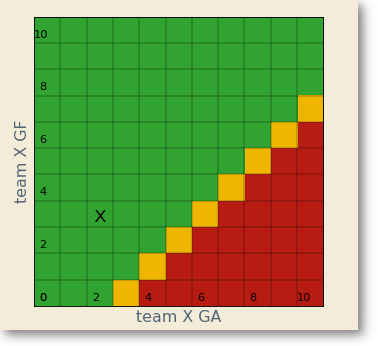
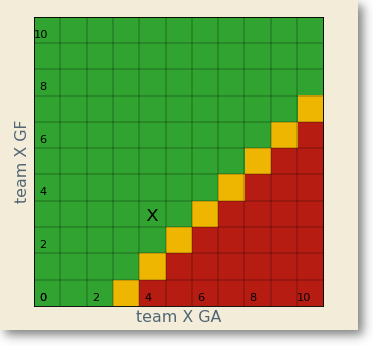
more content github pages

diff --git a/main.py b/main.py
@@ -39,27 +39,29 @@ class TieBreaker(App):
         self.layout = MyLayout()
         self.data = Data(gfa=self.gfa)
         self.help = Help()
-
-        if self.debug or self.test:
-            self.data.gfa = {"A_gf":[gfa[0]],"A_ga":[gfa[1]], \
-                    "X_gf":[gfa[2]],"X_ga":[gfa[3]]}
-            setattr(self.layout.tinput_A_ga,'text',str(self.data.gfa['A_ga'][0]))
-            setattr(self.layout.tinput_A_gf,'text',str(self.data.gfa['A_gf'][0]))
-            setattr(self.layout.tinput_X_ga,'text',str(self.data.gfa['X_ga'][0]))
-            setattr(self.layout.tinput_X_gf,'text',str(self.data.gfa['X_gf'][0]))
-        if self.debug:
-            self.imgdir = '/home/jbishop/src/python/kivy/testimages'
-            setattr(self.layout.mb2,'text',ptype)
-            self.layout.wltstate = wlt
-            self.data.wltstate = self.layout.wltstate
-            if ptype != 'matrix':
-                self.layout.check[self.layout.wltstate].active = True
-            self.doplot()
-        if self.test:
-            self.imgdir = '/home/jbishop/src/python/kivy/testimages/comp'
-            # not sure why this needs delay
-            Clock.schedule_once(self.do_test,1)
-            self.ilabel = None
+        self.imgdir = None
+    
+        if platform == 'linux':
+            if self.debug or self.test:
+                self.data.gfa = {"A_gf":[gfa[0]],"A_ga":[gfa[1]], \
+                        "X_gf":[gfa[2]],"X_ga":[gfa[3]]}
+                setattr(self.layout.tinput_A_ga,'text',str(self.data.gfa['A_ga'][0]))
+                setattr(self.layout.tinput_A_gf,'text',str(self.data.gfa['A_gf'][0]))
+                setattr(self.layout.tinput_X_ga,'text',str(self.data.gfa['X_ga'][0]))
+                setattr(self.layout.tinput_X_gf,'text',str(self.data.gfa['X_gf'][0]))
+            if self.debug:
+                self.imgdir = '/home/jbishop/src/python/kivy/testimages'
+                setattr(self.layout.mb2,'text',ptype)
+                self.layout.wltstate = wlt
+                self.data.wltstate = self.layout.wltstate
+                if ptype != 'matrix':
+                    self.layout.check[self.layout.wltstate].active = True
+                self.doplot()
+            if self.test:
+                self.imgdir = '/home/jbishop/src/python/kivy/testimages/comp'
+                # not sure why this needs delay
+                Clock.schedule_once(self.do_test,1)
+                self.ilabel = None
 
         # callbacks for radio button WLT updates
         for c in 'WL': # 'T' isn't implemented yet
@@ -203,11 +205,12 @@ class TieBreaker(App):
                 hf = None
                 self.layout.add_plot(self.layout.tlayout)
 
-            if self.debug:
-                if hf is not None:
-                    plt.savefig(os.path.join(self.imgdir,'testkivy.png'))
-                ilabel = '-'.join(self.gfa.astype(str))+'_'+self.layout.mb2.text+self.layout.wltstate
-                self.layout.fl.export_to_png(os.path.join(self.imgdir,'I_'+ilabel+'.png'))
+            if platform == 'linux':
+                if self.debug:
+                    if hf is not None:
+                        plt.savefig(os.path.join(self.imgdir,'testkivy.png'))
+                    ilabel = '-'.join(self.gfa.astype(str))+'_'+self.layout.mb2.text+self.layout.wltstate
+                    self.layout.fl.export_to_png(os.path.join(self.imgdir,'I_'+ilabel+'.png'))
             # note kivyagg object is still default 100x100 size here
             return hf
 

diff --git a/docs/instructions.md b/docs/instructions.md
@@ -3,8 +3,18 @@ layout: default
 title: Instructions
 permalink: /instructions/
 ---
-1. Team A has completed all 3 games of the round robin, while Team X has completed 2 games.
-2. Enter the total goals (for and against) for both teams, then press return.
+1. Consider the following hypothetical table of standings in a four team round robin. Team Chiefs has qualified to advance, in first place. Team A has also completed 3 games of the round robin. Team X has completed 2 games and has 1 final game remaining against team Bots:
+
+    | Team | Games | Wins | Losses | Ties | points |
+    | ---- | ----- | ---- | ------ | ---- | ------ |
+    | Chiefs | 3   | 3    | 0      | 0    | 6      |
+    | X    | 2     | 1    | 0      | 1    | 3      |
+    | A    | 3     | 1    | 1      | 1    | 3      |
+    | Bots | 2     | 0    | 2      | 0    | 0      |
+
+    *If team X loses the final game, there will be a tie with team A in the final round robin standings, and the tie-breaker formula will be needed to resolve it.*
+
+2. Enter the total goals (for and against) for both teams A and X, then press return.
 ![step 1]({{site.baseurl}}/images/tb_instructions_1.png "Step 1")
 
     *Team A has scored 12 for and given up 12 against during their 3 games. Team X has scored 13 and given up 10 in just 2 games.*
@@ -17,31 +27,26 @@ permalink: /instructions/
 
     ![step 3]({{site.baseurl}}/images/tb_instructions_3.png "Step 3")
 
-    *The black 'x' indicates a scenario in which team X scored a 3-2 victory in their final game, and qualify for further play based on overall GF/(GF+GA) ratio*
+    *The black 'x' indicates a scenario in which team X lost 4-3 in their final game, but qualify ahead of team A for further play based on the tie-breaking GF/(GF+GA) ratio*
 5. The yellow squares (if any) denote (GA,GF) pairs that fail to break the tie, according to the current formula.
 
     ![step 4]({{site.baseurl}}/images/tb_instructions_4.png "Step 4")
 
-    *The black 'x' indicates a scenario in which team X lost 5-2 in their final game, and are still tied with team A based on overall GF/(GF+GA) ratio*
-6. Note that matrix output shows both Win (GF>GA) and Loss (GA>GF) scenarios for team X in game 3, whereas only one or the other of those outcomes actually leads to a Tie with team A in the round robin standings.
-7. To select alternate outputs showing the known Win/Loss scenario, use the 'output' menu.
+    *The black 'x' indicates a scenario in which team X lost 5-2 in their final game, and are still tied with team A based on overall GF/(GF+GA) ratio. Tournament organizers will go to a second tie-breaking rule, which is then beyond the scope of this app.*
+6. Note that matrix output shows both Win (GF>GA) and Loss (GA>GF) scenarios for team X in game 3, whereas it is only a Loss for team X that will lead to a Tie in the round robin standings, in this fictitious example. And in general, for any round robin scenario it is known in advance of game 3 whether it is a Win or Loss that leads to a Tie in the final standings.
+7. To select alternate outputs showing only the known Win/Loss scenario, use the 'output' menu.
 
     ![step 5]({{site.baseurl}}/images/tb_instructions_5.png "Step 5")
 
     *Select \'bar\' or \'tabular\' for Win- or Loss-only scenarios. This will activate the radio buttons. To select Win or Loss scenarios use the \'W\' and \'L\' radio buttons respectively.*
 
-8. The bar chart displays a modified vertical axis showing the net difference GF-GA. 
-
-    ![step 6]({{site.baseurl}}/images/tb_instructions_6.png "Step 6")
-
-    *In a Win scenario, GF > GA so the vertical axis is positive. The plot shows that team X qualifies for any GA scenario, regardless of GF. Note that the vertical axis begins at 0, which is actually a tie. The zero (0) GF is plotted for both Win and Loss scenarios to establish a continuity between the two plots.*
-9. If the 'L' radio button is clicked to switch to the Loss scenario, the bar chart is replotted accordingly.
+8. The bar chart displays a modified vertical axis showing the net difference GF-GA. If the 'L' radio button is clicked to switch to the Loss scenario, the bar chart is plotted like this:
 
     ![step 7]({{site.baseurl}}/images/tb_instructions_7.png "Step 7")
 
-    *In this Loss scenario, GF < GA so the vertical axis is negative. The plot shows that for GA of 0,1 or 2, team X will qualify. If the GA >= 3, then team X will qualify if they lose by no more than 2 goals, and they will still be tied with team A if they lose by no more than 3 goals. If the GA >=4, team X will fail to qualify if they lose by 4 goals or more.*
-10. If the 'tabular' output is selected, then the same data are written out in a table. If there are more than four rows in the table, the table can be scrolled.
+    *In this Loss scenario, GF < GA so the vertical axis is negative. The plot shows that for GA of 0,1 or 2, team X will qualify regardless of goals for. If the GA >= 3, then team X will qualify if they lose by no more than 2 goals, and they will still be tied with team A if they lose by no more than 3 goals. If the GA >=4, team X will fail to qualify if they lose by 4 goals or more.*
+9. If the 'tabular' output is selected, then the same data are written out in a table. If there are more than four rows in the table, the table can be scrolled.
 
     ![step 8]({{site.baseurl}}/images/tb_instructions_8.png "Step 8")
 
-    *For the same Loss scenario as in step 9, the several GA scenarios are tabulated. There are exactly four rows, so the table is not scrollable. In essence, the table simply lists what is written in the caption above. However note that some of the information displayed in the bar chart is not explicitly shown in the table. In other words, the table shows at most one result for each value of GA. Therefore the limiting green scenario for qualify is shown, and the nearest red for disqualify is never shown. Likewise, where a yellow Tie outcome is present for a given GA, that will be tallied in the table, and the matching green qualify outcome must then be inferred.*
+    *For the same Loss scenario as in step 8, the several GA scenarios are tabulated. There are exactly four rows, so the table is not scrollable. In essence, the table simply lists what is written in english in the caption of step 8. However note that some of the information displayed in the bar chart is not explicitly shown in the table. In other words, the table shows at most one result for each value of GA, but sometimes only one result for a range of GA, whichever is the most concise way to communicate the results. Furthermore, only the limiting GF-GA case for team X to qualify is shown (green background), and the nearest GF-GA case that would disqualify team X (ie with a red background) is never shown in this tabular format. Likewise, where a Tie outcome is present for a given GF-GA, that will be tallied in the table with a yellow background, and the limiting case for team X to qualify must then be inferred. So for example in this table, for any GA > 2, team X will still be tied with team A if they lose by 3 goals. From this it can be inferred that team X will qualify if they lose by 2 goals or less.*

diff --git a/docs/about.md b/docs/about.md
@@ -11,3 +11,5 @@ permalink: /about/
 - This assessment is easily made after the final game of the round robin has been played when all the scoring is known.
 - However, for fans of the 3rd and final game of one or both of the teams in question, it may be of interest to know the several goal-scoring scenarios that lead to qualification, _before_ or _during_ that final 3rd game.
 - TieBreaker app displays those goal-scoring scenarios.
+
+At this time, the app is only supported on Android phones, and has not been tested on any other device.

diff --git a/docs/download.md b/docs/download.md
@@ -3,6 +3,6 @@ layout: default
 title: Download
 permalink: /download/
 ---
-See the app on google Play: [https://play.google.com/store/apps/details?id=org.jb.tiebreaker](https://play.google.com/store/apps/details?id=org.jb.tiebreaker)
+Google Play: [TieBreaker app](https://play.google.com/store/apps/details?id=org.jb.tiebreaker)
 
-See the code on github: [https://github.com/jeb2112/tiebreaker](https://github.com/jeb2112/tiebreaker)
+Github: [source code](https://github.com/jeb2112/tiebreaker)
